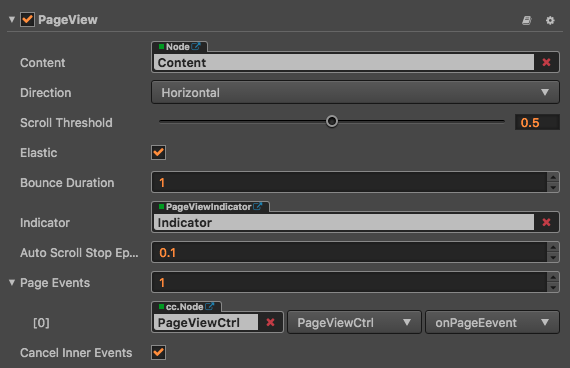
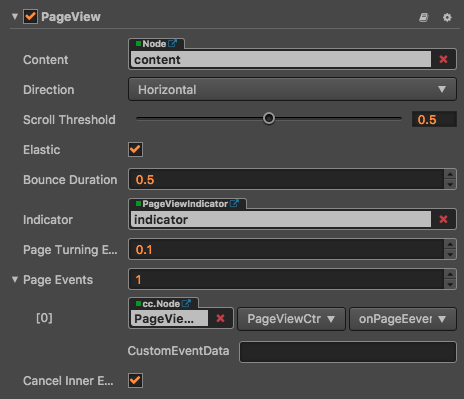
improve pageview docs

diff --git a/source/zh/components/pageview.md b/source/zh/components/pageview.md
@@ -10,26 +10,28 @@ PageView 是一种页面视图容器.
 
 ## PageView 属性
 
-| 属性 |   功能说明
-| -------------- | ----------- |
-| Content| 它是一个节点引用，用来创建 PageView 的可滚动内容。
-| Direction | 页面视图滚动方向。
-| ScrollThreshold | 滚动临界值，默认单位百分比，当拖拽超出该数值时，松开会自动滚动下一页，小于时则还原。
-| Elastic | 布尔值，是否回弹。
-| Bounce Duration | 浮点数，回弹所需要的时间。取值范围是 0-10。
-| indicator | 页面视图指示器组件。
-| autoScrollStopEpsilon| 设置 PageView 页面自动滚动动画结束的阈值，修改此值可以调整 PageView 事件的发送时机。
-| cancelInnerEvents | 布尔值，是否在滚动行为时取消子节点上注册的触摸事件
+| 属性                   | 功能说明                                                                             |
+| --------------         | -----------                                                                          |
+| Content                | 它是一个节点引用，用来创建 PageView 的可滚动内容。                                   |
+| Direction              | 页面视图滚动方向。                                                                   |
+| ScrollThreshold        | 滚动临界值，默认单位百分比，当拖拽超出该数值时，松开会自动滚动下一页，小于时则还原。 |
+| Elastic                | 布尔值，是否回弹。                                                                   |
+| pageTurningEventTiming | 设置 PageView PageTurning 事件的发送时机。                                           |
+| Bounce Duration        | 浮点数，回弹所需要的时间。取值范围是 0-10。                                          |
+| indicator              | 页面视图指示器组件。                                                                 |
+| autoScrollStopEpsilon  | 设置 PageView 页面自动滚动动画结束的阈值，修改此值可以调整 PageView 事件的发送时机。 |
+| cancelInnerEvents      | 布尔值，是否在滚动行为时取消子节点上注册的触摸事件                                   |
 
 ## PageView 事件
 
 ![pageview-event](./pageview/pageview-event.png)
 
-| 属性 |   功能说明
-| -------------- | ----------- |
-|Target| 带有脚本组件的节点。
-|Component| 脚本组件名称。
-|Handler| 指定一个回调函数，当 PageView 的事件发生的时候会调用此函数。
+| 属性            | 功能说明                                                     |
+| --------------  | -----------                                                  |
+| Target          | 带有脚本组件的节点。                                         |
+| Component       | 脚本组件名称。                                               |
+| Handler         | 指定一个回调函数，当 PageView 的事件发生的时候会调用此函数。 |
+| CustomEventData | 用户指定任意的字符串作为事件回调的最后一个参数传入。         |
 
 PageView 的事件回调有两个参数，第一个参数是 PageView 本身，第二个参数是 PageView 的事件类型。
 
@@ -47,6 +49,66 @@ CCPageViewIndicator 是可选的，该组件是用来显示页面的个数和标
 
 建立关联可以通过在**层级管理器**里面拖拽一个带有 PageViewIndicator 组件的节点到 PageView 的相应字段完成。
 
+#### 通过脚本代码添加回调
+
+##### 方法一
+
+这种方法添加的事件回调和使用编辑器添加的事件回调是一样的，通过代码添加，
+你需要首先构造一个 `cc.Component.EventHandler` 对象，然后设置好对应的 target, component, handler 和 customEventData 参数。
+
+```js
+var pageViewEventHandler = new cc.Component.EventHandler();
+pageViewEventHandler.target = this.node; //这个 node 节点是你的事件处理代码组件所属的节点
+pageViewEventHandler.component = "cc.MyComponent"
+pageViewEventHandler.handler = "callback";
+pageViewEventHandler.customEventData = "foobar";
+
+pageView.pageEvents.push(pageViewEventHandler);
+
+//here is your component file
+cc.Class({
+    name: 'cc.MyComponent'
+    extends: cc.Component,
+
+    properties: {
+    },
+
+	//注意参数的顺序和类型是固定的
+    callback: function(pageView, eventType, customEventData) {
+        //这里 pageView 是一个 PageView 组件对象实例
+        // 这里的 eventType === cc.PageView.EventType.PAGE_TURNING
+        //这里的 customEventData 参数就等于你之前设置的 "foobar"
+    }
+});
+```
+
+##### 方法二
+
+通过 `pageView.node.on('page-turning', ...)` 的方式来添加
+
+```js
+//假设我们在一个组件的 onLoad 方法里面添加事件处理回调，在 callback 函数中进行事件处理:
+
+cc.Class({
+    extends: cc.Component,
+
+	
+    properties: {
+       pageView: cc.PageView
+    },
+    
+    onLoad: function () {
+       this.pageView.node.on('click', this.callback, this);
+    },
+    
+    callback: function (event) {
+       //这里的 event 是一个 EventCustom 对象，你可以通过 event.detail 获取 PageView 组件
+       var pageView = event.detail;
+       //do whatever you want with pageView
+       //另外，注意这种方式注册的事件，也无法传递 customEventData
+    }
+});
+```
 ---
 
 继续前往 [PageViewIndicator 组件参考](pageviewindicator.md)。
